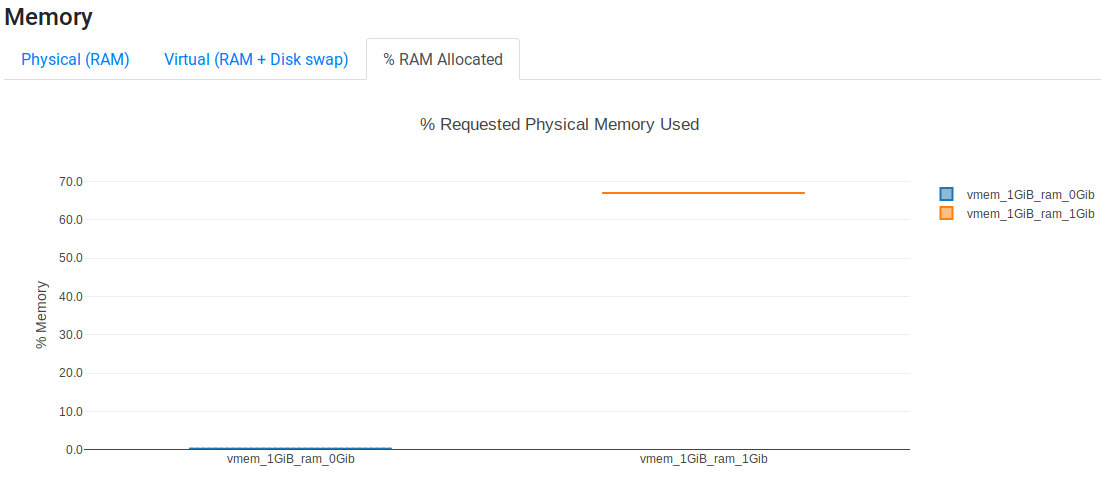
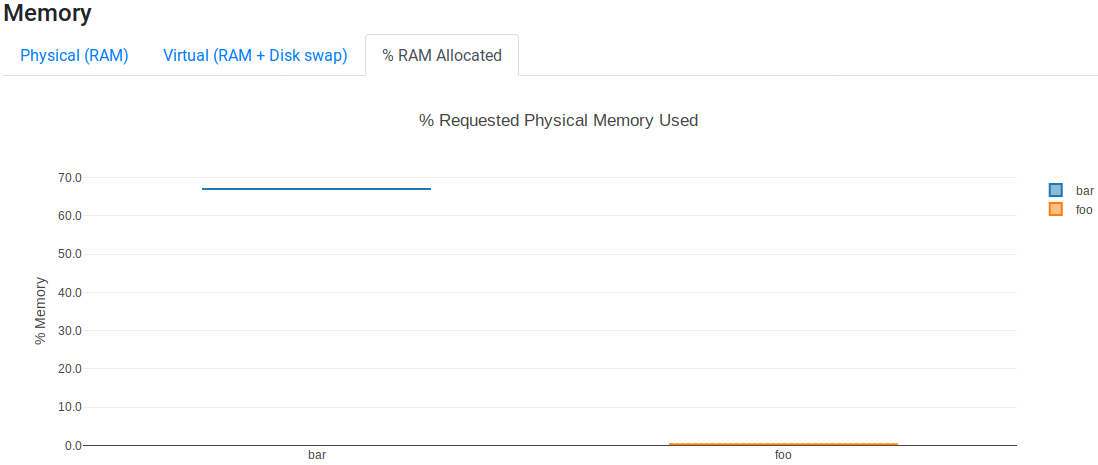
Minor modifications to have figures consistent with the names of the processes (foo and bar) in the Metrics documentation

diff --git a/docs/metrics.rst b/docs/metrics.rst
@@ -104,7 +104,7 @@ The first program just allocates a variable of 1 GiB:
 
 .. code-block:: c
    :linenos:
-   :emphasize-lines: 32,44
+   :emphasize-lines: 31,43
 
     #include <stdio.h>
     #include <stdlib.h>
@@ -167,7 +167,7 @@ The second program allocates a variable of 1 GiB and fills it with data:
 
 .. code-block:: c
    :linenos:
-   :emphasize-lines: 32,44,50-54
+   :emphasize-lines: 31,43,49-53
 
     #include <stdio.h>
     #include <stdlib.h>
@@ -234,7 +234,7 @@ The second program allocates a variable of 1 GiB and fills it with data:
     }
 
 
-The two programs are executed in the following Nextflow script::
+The first and second programs are executed in ``foo`` and ``bar`` processes respectively as follows::
 
   #!/usr/bin/env nextflow
 
@@ -253,7 +253,7 @@ The two programs are executed in the following Nextflow script::
       memory '1.5 GB'
 
       """
-      memory_vmem1GiB_ram_1Gib
+      memory_vmem_1GiB_ram_1Gib
       """
 
   }
